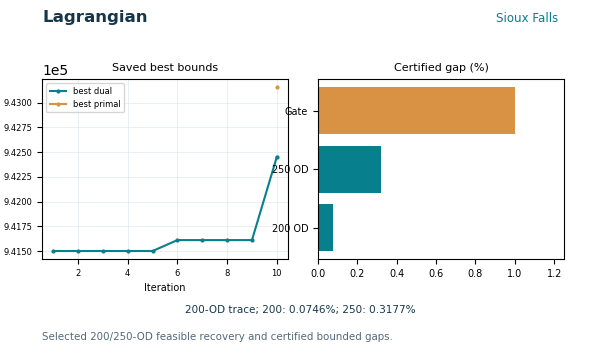
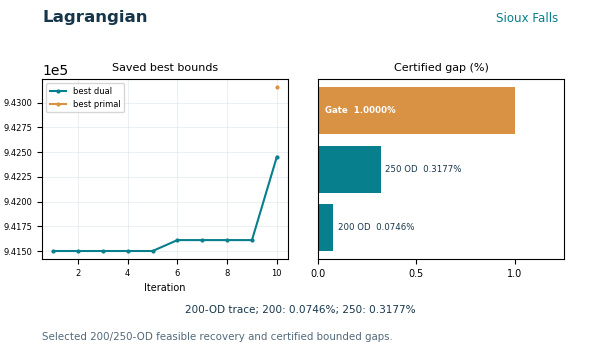
Show saved Lagrangian bounds in three-city homepage evidence

diff --git a/docs/index.html b/docs/index.html
@@ -230,11 +230,11 @@ The horizontal axis compares how the documented framework is instantiated in Bos
 <div class="table-scroll"><table class="home-coverage" data-component="17" width="100%"><colgroup><col width="33%"/><col width="33%"/><col width="33%"/></colgroup>
 <thead><tr><th colspan="3" scope="colgroup" width="800">Lagrangian</th></tr>
 <tr><th scope="col" width="266">Boston</th><th scope="col" width="266">Sioux Falls</th><th scope="col" width="266">Hong Kong</th></tr></thead><tbody>
-<tr class="coverage-scope"><td valign="top" width="266">Feasible primal, but frozen 1% gap gate missed (1.1002%).</td><td valign="top" width="266">Public 200-OD best-bound iteration trace; both 200/250-OD accepted certified gaps appear beside it.</td><td valign="top" width="266">Ten-OD feasible recovery with 0.7444% certified gap.</td></tr>
+<tr class="coverage-scope"><td valign="top" width="266">Saved Boston R2 10-OD best-bound iteration trace; feasible primal, 1.1002% gap misses the frozen 1% gate.</td><td valign="top" width="266">Public 200-OD best-bound iteration trace; both 200/250-OD accepted certified gaps appear beside it.</td><td valign="top" width="266">Ten-OD feasible recovery with 0.7444% certified gap.</td></tr>
 <tr class="coverage-preview"><td align="center" width="266"><a href="cases/boston.html#finite-time-expanded-algorithms"><img alt="Boston Lagrangian preview" src="assets/homepage_evidence_r2/row_17_boston.png" width="220"/></a></td><td align="center" width="266"><a href="methods/distributed-assignment.html"><img alt="Sioux Falls Lagrangian preview" src="assets/homepage_evidence_r2/row_17_sioux_falls.png" width="220"/></a></td><td align="center" width="266"><a href="cases/hong-kong-space-time.html"><img alt="Hong Kong Lagrangian preview" src="assets/homepage_evidence_r2/row_17_hong_kong.png" width="220"/></a></td></tr>
-<tr class="coverage-caption"><td align="center" width="266"><sub>Gated 1.1002% result; public aggregate only. Full holdout iteration history remains private.</sub></td><td align="center" width="266"><sub>Left: saved 200-OD best bounds by iteration; right: accepted 200-OD 0.0746% and 250-OD 0.3177% gaps.</sub></td><td align="center" width="266"><sub>Saved ten-OD best bounds by recorded iteration; missing primal points are not interpolated; accepted 0.7444% gap.</sub></td></tr>
+<tr class="coverage-caption"><td align="center" width="266"><sub>Saved Boston R2 10-OD best bounds by recorded iteration; missing primal points are not interpolated. Feasible primal, but 1.1002% misses the frozen 1% gate. The source history CSV remains private.</sub></td><td align="center" width="266"><sub>Left: saved 200-OD best bounds by iteration; right: accepted 200-OD 0.0746% and 250-OD 0.3177% gaps.</sub></td><td align="center" width="266"><sub>Saved ten-OD best bounds by recorded iteration; missing primal points are not interpolated; accepted 0.7444% gap.</sub></td></tr>
 <tr class="coverage-links">
-<td width="266"><sub><a href="cases/boston.html#finite-time-expanded-algorithms">Evidence</a> · <a href="assets/homepage_evidence_r2/row_17_boston.png">Full preview</a> · <a href="cases/boston.html">Source record</a></sub></td>
+<td width="266"><sub><a href="cases/boston.html#finite-time-expanded-algorithms">Evidence</a> · <a href="assets/homepage_evidence_r2/row_17_boston.png">Full preview</a> · <a href="assets/homepage_evidence_r2/BOSTON_ROW17_DERIVED_FIGURE_APPROVAL.json">Source record</a></sub></td>
 <td width="266"><sub><a href="methods/distributed-assignment.html">Evidence</a> · <a href="assets/homepage_evidence_r2/row_17_sioux_falls.png">Full preview</a> · <a href="https://github.com/scholarhaozheng/mobility-network-lab/blob/main/algorithms/distributed_assignment/lagrangian_r2/figure_data/Sioux_200OD_P07_history.csv">Source record</a></sub></td>
 <td width="266"><sub><a href="cases/hong-kong-space-time.html">Evidence</a> · <a href="assets/homepage_evidence_r2/row_17_hong_kong.png">Full preview</a> · <a href="assets/hong_kong/full_stack_r5/r2r4_baseline/phase_c/lagrangian_run/history.csv">Source record</a></sub></td>
 </tr></tbody></table></div>
@@ -440,13 +440,13 @@ The <a href="methods/space-time-cg.html#cg-experiments">cross-case CG evidence</
 <td class="atlas-card-cell" width="200"><a href="cases/boston-space-time.html#from-the-physical-network-to-the-finite-time-expanded-graph"><img alt="Boston Network construction and generated columns; 90-node/125-link/10-OD finite graph; saved time-indexed column." src="assets/homepage_evidence_r2/row_14_boston.png" width="165"/></a></td>
 <td class="atlas-card-cell" width="200"><a href="cases/boston-space-time.html#reference-objective-agreement"><img alt="Boston Arc-flow LP reference; Own-graph LP reference for the bounded ten-OD fixed-cost instance." src="assets/boston/space_time_cg_r4/boston_phase_ii_objective.png" width="165"/></a></td>
 <td class="atlas-card-cell" width="200"><a href="cases/boston-space-time.html#phase-i-restores-feasibility"><img alt="Boston Two-phase column generation; Phase I/II and independent 10/10 pricing closure." src="assets/homepage_evidence_r2/row_16_boston_r3.png" width="165"/></a></td>
-<td class="atlas-card-cell" width="200"><a href="cases/boston.html#finite-time-expanded-algorithms"><img alt="Boston Lagrangian; Feasible primal, but frozen 1% gap gate missed (1.1002%)." src="assets/homepage_evidence_r2/row_17_boston.png" width="165"/></a></td>
+<td class="atlas-card-cell" width="200"><a href="cases/boston.html#finite-time-expanded-algorithms"><img alt="Boston Lagrangian; Saved Boston R2 10-OD best-bound iteration trace; feasible primal, 1.1002% gap misses the frozen 1% gate." src="assets/homepage_evidence_r2/row_17_boston.png" width="165"/></a></td>
 </tr>
 <tr class="atlas-card-meta-row" data-stage="boston-finite">
 <td class="atlas-meta-cell" width="200"><small class="atlas-meta">90-node/125-link/10-OD finite graph; saved time-indexed column.</small></td>
 <td class="atlas-meta-cell" width="200"><small class="atlas-meta">Own-graph LP reference for the bounded ten-OD fixed-cost instance.</small></td>
 <td class="atlas-meta-cell" width="200"><small class="atlas-meta">Phase I/II and independent 10/10 pricing closure.</small></td>
-<td class="atlas-meta-cell" width="200"><small class="atlas-meta">Feasible primal, but frozen 1% gap gate missed (1.1002%).</small></td>
+<td class="atlas-meta-cell" width="200"><small class="atlas-meta">Saved Boston R2 10-OD best-bound iteration trace; feasible primal, 1.1002% gap misses the frozen 1% gate.</small></td>
 </tr>
 <tr class="atlas-card-links-row" data-stage="boston-finite">
 <td class="atlas-links-cell" width="200"><small class="atlas-links"><a href="cases/boston-space-time.html#from-the-physical-network-to-the-finite-time-expanded-graph">Evidence</a> · <a href="assets/homepage_evidence_r2/row_14_boston.png">Figure</a></small></td>

diff --git a/tools/visuals/render_homepage_evidence_r2.py b/tools/visuals/render_homepage_evidence_r2.py
@@ -8,10 +8,12 @@ from __future__ import annotations
 
 import csv
 import hashlib
+import html
 import io
 import json
 import math
 import re
+import shutil
 from collections import defaultdict
 from pathlib import Path
 
@@ -22,12 +24,13 @@ from matplotlib.collections import LineCollection
 from matplotlib.colors import Normalize
 from matplotlib.patches import Polygon as PatchPolygon
 import numpy as np
-from PIL import Image
+from PIL import Image, ImageDraw, ImageFont
 from shapely import wkt
 from shapely.geometry import shape
 
 ROOT = Path(__file__).resolve().parents[2]
 OUT = ROOT / "docs/assets/homepage_evidence_r2"
+APPROVED_BOSTON_LAGRANGIAN = OUT / "BOSTON_ROW17_DERIVED_FIGURE_APPROVAL.json"
 ROW15_MAPPING = OUT / "ROW15_REUSE_SOURCE_MAPPING.csv"
 R1_MAP = ROOT / "tools/visuals/homepage_evidence_r1_map.csv"
 CITIES = ("Boston", "Sioux Falls", "Hong Kong")
@@ -89,7 +92,7 @@ SOURCE_OVERRIDE = {
     "14": {"Boston": "docs/assets/three_city_r2/data/boston_construction_edges.csv", "Sioux Falls": "docs/assets/three_city_r2/data/sioux_construction_edges.csv", "Hong Kong": "docs/assets/three_city_r2/data/hong_kong_construction_edges.csv"},
     "15": {"Boston": B_CG+"validation_summary.json", "Sioux Falls": S_CG+"200_phase_ii_trace.csv", "Hong Kong": HK_CG+"full_cg_v1_phase_ii_objective_trace.csv"},
     "16": {"Boston": B_CG+"phase_i_total.csv", "Sioux Falls": S_CG+"200_phase_i_trace.csv", "Hong Kong": HK_CG+"full_cg_v1_phase_i_artificial_flow_trace.csv"},
-    "17": {"Boston": "docs/cases/boston.md", "Sioux Falls": "algorithms/distributed_assignment/lagrangian_r2/figure_data/Sioux_200OD_P07_history.csv", "Hong Kong": "docs/assets/hong_kong/full_stack_r5/r2r4_baseline/phase_c/lagrangian_run/history.csv"},
+    "17": {"Boston": "docs/assets/homepage_evidence_r2/BOSTON_ROW17_DERIVED_FIGURE_APPROVAL.json", "Sioux Falls": "algorithms/distributed_assignment/lagrangian_r2/figure_data/Sioux_200OD_P07_history.csv", "Hong Kong": "docs/assets/hong_kong/full_stack_r5/r2r4_baseline/phase_c/lagrangian_run/history.csv"},
     "18": {"Boston": "docs/assets/admm_r2/figures/admm_boston_10od_case_sequence.png", "Sioux Falls": "docs/assets/admm_r2/figures/admm_sioux_200_case_sequence.png", "Hong Kong": "docs/assets/hong_kong/full_stack_r5/r2r4_baseline/phase_c/admm_run/result.json"},
     "19": {"Boston": "examples/boston/SAVED_EXAMPLE.md", "Sioux Falls": "examples/sioux-falls/native_l3_r1/README.md", "Hong Kong": "docs/cases/hong-kong.md"},
 }
@@ -108,6 +111,17 @@ SIOUX_250_HISTORY = "algorithms/distributed_assignment/lagrangian_r2/figure_data
 
 def sha(path: Path) -> str:
     return hashlib.sha256(path.read_bytes()).hexdigest()
+
+def check_approved_boston_lagrangian(dest: Path) -> dict:
+    """Keep the approved derivative stable without shipping the private history."""
+    record=json.loads(APPROVED_BOSTON_LAGRANGIAN.read_text(encoding="utf-8"))
+    if record.get("scope")!="one Boston R2 10-OD row-17 derived PNG only":
+        raise AssertionError("Boston row-17 release scope changed")
+    if record.get("raw_history_csv_published") is not False:
+        raise AssertionError("Private Boston history must not be published")
+    if sha(dest)!=record["derived_png_sha256"]:
+        raise AssertionError("Approved Boston row-17 PNG hash changed")
+    return record
 
 def records(rel: str) -> list[dict]:
     with (ROOT/rel).open(newline="", encoding="utf-8-sig") as f:
@@ -407,7 +421,16 @@ def render_summary(fig,row_id,city,private_boston_history=None):
             axs[0].ticklabel_format(axis="y",style="sci",scilimits=(0,0))
         if city=="Sioux Falls":labels=["200 OD","250 OD","Gate"];values=[0.0746,0.3177,1.0]
         else:labels=["Saved gap","Gate"];values=[gap,1.0]
-        axs[1].barh(labels,values,color=[TEAL]*(len(values)-1)+[ORANGE]);axs[1].set_xlim(0,1.25);axs[1].tick_params(labelsize=7)
+        axs[1].barh(range(len(values)),values,color=[TEAL]*(len(values)-1)+[ORANGE])
+        axs[1].set_yticks([])
+        axs[1].set_xlim(0,1.25)
+        axs[1].set_xticks([0,.5,1.0]);axs[1].tick_params(axis="x",labelsize=7)
+        for i,(label,value) in enumerate(zip(labels,values)):
+            label_text=f"{label}  {value:.4f}%" if label!="Gate" else "Gate  1.0000%"
+            if value<.35:
+                axs[1].text(value+.025,i,label_text,va="center",fontsize=6.2,color=NAVY)
+            else:
+                axs[1].text(.035,i,label_text,va="center",fontsize=6.2,color="white",weight="bold")
         axs[0].set_title("Saved best bounds" if rs is not None else "Dual / primal evidence",fontsize=8);axs[1].set_title("Certified gap (%)",fontsize=8)
         fig.text(.5,.13,status,ha="center",fontsize=7.5,color=NAVY)
         return
@@ -462,14 +485,17 @@ def render(rows_to_update: set[str] | None = None):
             if source and not (ROOT/source).is_file():raise FileNotFoundError(source)
             display_scope=("200-OD example; 250-OD results in the case page; no full-DAG closure"
                            if row_id=="16" and city=="Sioux Falls" else old["result_summary"])
-            fig=fig_axes(title,city,display_scope)
-            if status in {"outside benchmark","not demonstrated"} or not source:
-                neutral(fig,"Not part of this case",old["result_summary"])
-            else:render_data_panel(fig,row_id,city)
             suffix="_r3" if row_id=="16" else ""
             rel=f"docs/assets/homepage_evidence_r2/row_{row_id}_{SLUG[city]}{suffix}.png";dest=ROOT/rel
-            fig.savefig(dest,dpi=100,facecolor="white",metadata={"Software":"MCL homepage evidence R2"})
-            plt.close(fig)
+            if row_id=="17" and city=="Boston":
+                check_approved_boston_lagrangian(dest)
+            else:
+                fig=fig_axes(title,city,display_scope)
+                if status in {"outside benchmark","not demonstrated"} or not source:
+                    neutral(fig,"Not part of this case",old["result_summary"])
+                else:render_data_panel(fig,row_id,city)
+                fig.savefig(dest,dpi=100,facecolor="white",metadata={"Software":"MCL homepage evidence R2"})
+                plt.close(fig)
             with Image.open(dest) as im:
                 if im.size!=CANVAS:raise AssertionError((rel,im.size))
             target=old["evidence_page"]
@@ -484,7 +510,7 @@ def render(rows_to_update: set[str] | None = None):
             if row_id=="17" and city=="Sioux Falls":
                 note="public 200-OD best-dual/best-primal iteration trace; 200/250-OD certified gaps remain separate"
             if row_id=="17" and city=="Boston":
-                note="public status-only preview; private Boston holdout history excluded from public assets pending specific release approval"
+                note="user-approved derived best-bound PNG only; raw Boston R2 history excluded; 1.1002% misses frozen 1% gate"
             if row_id=="17" and city=="Hong Kong":
                 note="saved iteration on x axis; missing best-primal values remain unplotted"
             original_figure=old["source_figure_or_data"]
@@ -508,6 +534,8 @@ def render(rows_to_update: set[str] | None = None):
                 row["result_scope"]="200-OD plotted example; 250-OD results remain on the case page; independent full-DAG closure not established."
             if row_id=="17" and city=="Sioux Falls":
                 row["result_scope"]="Public 200-OD best-bound iteration trace; both 200/250-OD accepted certified gaps appear beside it."
+            if row_id=="17" and city=="Boston":
+                row["result_scope"]="Saved Boston R2 10-OD best-bound iteration trace; feasible primal, 1.1002% gap misses the frozen 1% gate."
             matrix.append(row)
             side={"preview_path":rel,"preview_hash":row["preview_hash"],"template_id":template,"city":city,"stage":title,"method":title if row_id in {"10","11","12","13","15","16","17","18"} else "","instance":old["result_summary"],"source_asset_or_data":source,"source_hash":row["source_hash"],"transform":"deterministic, source-qualified row-specific plot or neutral status","crop":"none","scale_behavior":"contain/equal physical geometry; local numeric scales","units":"as labelled in preview and detailed source","legend":row["legend_contract"],"target_page":row["target_page"],"target_anchor":row["target_anchor"]}
             if row_id=="16":
@@ -519,7 +547,11 @@ def render(rows_to_update: set[str] | None = None):
                 side["source_assets_sha256"]={p:sha(ROOT/p) for p in (source,SIOUX_250_HISTORY)}
                 side["plotted_instance"]="200 OD only; 250 OD appears in gap bars and detailed saved figure"
             if row_id=="17" and city=="Boston":
-                side["public_disclosure"]="Status and certified aggregate only; private holdout history is not included."
+                approval=check_approved_boston_lagrangian(dest)
+                side["public_disclosure"]="Exact user-approved derived PNG only; private history CSV is not included."
+                side["approval_record"]=APPROVED_BOSTON_LAGRANGIAN.relative_to(ROOT).as_posix()
+                side["private_source_sha256"]=approval["private_history_sha256"]
+                side["plot_contract"]="Recorded iterations 1–300; empty best_primal values remain unplotted; frozen 1% gap gate missed."
             if row_id=="17" and city=="Hong Kong":
                 side["plot_contract"]="Recorded iteration values; empty best_primal values remain NaN."
             dest.with_suffix(".source.json").write_text(json.dumps(side,indent=2,ensure_ascii=False)+"\n",encoding="utf-8",newline="\n")
@@ -575,7 +607,83 @@ def render_private_boston_review(history_path: Path, output_path: Path) -> None:
         "public_release_approval":"not established",
         "result_status":"FEASIBLE_PRIMAL_GAP_GATE_NOT_MET",
         "missing_best_primal_interpolation":False,
+        "recorded_iterations":len(rows),
+        "first_iteration":rows[0]["iteration"],
+        "last_iteration":rows[-1]["iteration"],
+        "missing_best_primal_count":sum(not r.get("best_primal") for r in rows),
     },indent=2)+"\n",encoding="utf-8",newline="\n")
+    render_private_row17_review_bundle(output_path)
+
+
+def render_private_row17_review_bundle(boston_preview: Path) -> None:
+    """Make a three-city row-17 review page; keep every derivative outside Git."""
+    review_dir=boston_preview.parent.resolve()
+    if review_dir.is_relative_to(ROOT.resolve()):
+        raise ValueError("The private three-city review must stay outside the publishing checkout")
+    public_previews={
+        "Sioux Falls":OUT/"row_17_sioux_falls.png",
+        "Hong Kong":OUT/"row_17_hong_kong.png",
+    }
+    assets={"Boston":boston_preview}
+    for city,public_path in public_previews.items():
+        dest=review_dir/public_path.name
+        shutil.copy2(public_path,dest)
+        assets[city]=dest
+    canvas=Image.new("RGB",(1800,395),"white")
+    draw=ImageDraw.Draw(canvas)
+    font=ImageFont.truetype("arial.ttf",18)
+    for index,city in enumerate(CITIES):
+        with Image.open(assets[city]) as picture:
+            if picture.size!=CANVAS:raise AssertionError((city,picture.size))
+            canvas.paste(picture.convert("RGB"),(600*index,30))
+        draw.text((600*index+20,5),city,fill=NAVY,font=font)
+        if index:draw.line((600*index,0,600*index,390),fill="#dce6eb",width=2)
+    contact=review_dir/"LAGRANGIAN_ROW17_THREE_CITY_REVIEW.png"
+    canvas.save(contact)
+    scope={
+        "Boston":"Feasible primal; certified gap 1.1002%, above the frozen 1% gate. Local review only; saved history is not cleared for public release.",
+        "Sioux Falls":"Saved 200-OD bounds; accepted gaps: 200 OD 0.0746%, 250 OD 0.3177%. The 250-OD objective trace is not placed on the 200-OD axis.",
+        "Hong Kong":"Saved ten-OD bounds; accepted certified gap 0.7444%. Empty best-primal entries remain unplotted.",
+    }
+    columns="\n".join(
+        f'<td><h2>{html.escape(city)}</h2><img src="{html.escape(assets[city].name)}" '
+        f'width="600" height="360" alt="{html.escape(city)} saved Lagrangian row-17 evidence">'
+        f'<p>{html.escape(scope[city])}</p></td>' for city in CITIES
+    )
+    page=("<!doctype html><html lang=\"en\"><meta charset=\"utf-8\"><title>Local row-17 Lagrangian review</title>"
+          "<style>body{font:15px/1.5 Arial,sans-serif;color:#17364a;margin:24px}"
+          "table{border-collapse:collapse;max-width:100%;display:block;overflow-x:auto}td{vertical-align:top;border:1px solid #dce6eb;padding:10px;width:600px}"
+          "img{max-width:100%;height:auto}h2{font-size:17px;margin:0 0 6px}p{margin:8px 0}</style>"
+          "<h1>Section 03 / Lagrangian — local three-city review</h1>"
+          "<p>This page is a review-only representation of the homepage row. It is not a published README or GitHub Pages asset.</p>"
+          f"<table><tr>{columns}</tr></table>"
+          "<p>The public Boston tile remains status-only until this specific derived history plot is authorized for release. "
+          "The source CSV and complete iteration values are not bundled here.</p></html>\n")
+    (review_dir/"LAGRANGIAN_ROW17_LOCAL_REVIEW.html").write_text(page,encoding="utf-8",newline="\n")
+    # A complete local copy keeps Section 03 and the three case-atlas cards in
+    # their real homepage positions.  The base points only to the existing
+    # checked-out site; the Boston derivative itself stays in this review dir.
+    site=(ROOT/"docs/index.html").read_text(encoding="utf-8")
+    public_boston="assets/homepage_evidence_r2/row_17_boston.png"
+    if site.count(public_boston)!=4:
+        raise AssertionError("Unexpected Boston row-17 homepage references")
+    site=site.replace("<head>",f'<head><base href="{(ROOT/"docs").as_uri()}/">',1)
+    site=site.replace(public_boston,boston_preview.resolve().as_uri())
+    (review_dir/"HOMEPAGE_ROW17_LOCAL_REVIEW.html").write_text(site,encoding="utf-8",newline="\n")
+    with (OUT/"ROW_TEMPLATE_MATRIX.csv").open(newline="",encoding="utf-8") as f:
+        current=[r for r in csv.DictReader(f) if r["row_id"]=="17"]
+    if len(current)!=3:raise AssertionError("Missing row-17 matrix records")
+    for r in current:
+        city=r["city"]
+        r["preview_path"]=assets[city].name
+        r["preview_hash"]=sha(assets[city])
+        if city=="Boston":
+            r["data_or_figure_source"]="private Boston R2 receiver-review history (not copied)"
+            r["source_hash"]=json.loads(boston_preview.with_suffix(".source.json").read_text(encoding="utf-8"))["source_sha256"]
+            r["notes"]="PRIVATE_LOCAL_REVIEW_ONLY; 300 saved iterations; no interpolation; 1.1002% exceeds 1% gate"
+    with (review_dir/"ROW_TEMPLATE_MATRIX_ROW17_REVIEW.csv").open("w",newline="",encoding="utf-8") as f:
+        writer=csv.DictWriter(f,fieldnames=list(current[0]),lineterminator="\n")
+        writer.writeheader();writer.writerows(current)
 
 
 if __name__=="__main__":

diff --git a/tools/visuals/compose_homepage_r2.py b/tools/visuals/compose_homepage_r2.py
@@ -386,7 +386,7 @@ def component_table(matrix, rid):
         }
         out[7]='<tr class="coverage-caption">'+''.join('<td width="266" align="center"><sub>'+esc(captions[c])+'</sub></td>' for c in CITIES)+'</tr>'
     if rid=="17":
-        captions={"Boston":"Gated 1.1002% result; public aggregate only. Full holdout iteration history remains private.",
+        captions={"Boston":"Saved Boston R2 10-OD best bounds by recorded iteration; missing primal points are not interpolated. Feasible primal, but 1.1002% misses the frozen 1% gate. The source history CSV remains private.",
                   "Sioux Falls":"Left: saved 200-OD best bounds by iteration; right: accepted 200-OD 0.0746% and 250-OD 0.3177% gaps.",
                   "Hong Kong":"Saved ten-OD best bounds by recorded iteration; missing primal points are not interpolated; accepted 0.7444% gap."}
         out[5]='<tr class="coverage-caption">'+''.join('<td width="266" align="center"><sub>'+esc(captions[c])+'</sub></td>' for c in CITIES)+'</tr>'

diff --git a/README.md b/README.md
@@ -275,11 +275,11 @@ Most shared row previews use one evidence graphic type and one 600 × 360 source
 <table class="home-coverage" data-component="17" width="100%"><colgroup><col width="33%"><col width="33%"><col width="33%"></colgroup>
 <thead><tr><th colspan="3" scope="colgroup" width="800">Lagrangian</th></tr>
 <tr><th scope="col" width="266">Boston</th><th scope="col" width="266">Sioux Falls</th><th scope="col" width="266">Hong Kong</th></tr></thead><tbody>
-<tr class="coverage-scope"><td width="266" valign="top">Feasible primal, but frozen 1% gap gate missed (1.1002%).</td><td width="266" valign="top">Public 200-OD best-bound iteration trace; both 200/250-OD accepted certified gaps appear beside it.</td><td width="266" valign="top">Ten-OD feasible recovery with 0.7444% certified gap.</td></tr>
+<tr class="coverage-scope"><td width="266" valign="top">Saved Boston R2 10-OD best-bound iteration trace; feasible primal, 1.1002% gap misses the frozen 1% gate.</td><td width="266" valign="top">Public 200-OD best-bound iteration trace; both 200/250-OD accepted certified gaps appear beside it.</td><td width="266" valign="top">Ten-OD feasible recovery with 0.7444% certified gap.</td></tr>
 <tr class="coverage-preview"><td width="266" align="center"><a href="docs/cases/boston.md#finite-time-expanded-algorithms"><img src="docs/assets/homepage_evidence_r2/row_17_boston.png" width="220" alt="Boston Lagrangian preview"></a></td><td width="266" align="center"><a href="docs/methods/distributed-assignment.md"><img src="docs/assets/homepage_evidence_r2/row_17_sioux_falls.png" width="220" alt="Sioux Falls Lagrangian preview"></a></td><td width="266" align="center"><a href="docs/cases/hong-kong-space-time.md"><img src="docs/assets/homepage_evidence_r2/row_17_hong_kong.png" width="220" alt="Hong Kong Lagrangian preview"></a></td></tr>
-<tr class="coverage-caption"><td width="266" align="center"><sub>Gated 1.1002% result; public aggregate only. Full holdout iteration history remains private.</sub></td><td width="266" align="center"><sub>Left: saved 200-OD best bounds by iteration; right: accepted 200-OD 0.0746% and 250-OD 0.3177% gaps.</sub></td><td width="266" align="center"><sub>Saved ten-OD best bounds by recorded iteration; missing primal points are not interpolated; accepted 0.7444% gap.</sub></td></tr>
+<tr class="coverage-caption"><td width="266" align="center"><sub>Saved Boston R2 10-OD best bounds by recorded iteration; missing primal points are not interpolated. Feasible primal, but 1.1002% misses the frozen 1% gate. The source history CSV remains private.</sub></td><td width="266" align="center"><sub>Left: saved 200-OD best bounds by iteration; right: accepted 200-OD 0.0746% and 250-OD 0.3177% gaps.</sub></td><td width="266" align="center"><sub>Saved ten-OD best bounds by recorded iteration; missing primal points are not interpolated; accepted 0.7444% gap.</sub></td></tr>
 <tr class="coverage-links">
-<td width="266"><sub><a href="docs/cases/boston.md#finite-time-expanded-algorithms">Evidence</a> · <a href="docs/assets/homepage_evidence_r2/row_17_boston.png">Full preview</a> · <a href="docs/cases/boston.md">Source record</a></sub></td>
+<td width="266"><sub><a href="docs/cases/boston.md#finite-time-expanded-algorithms">Evidence</a> · <a href="docs/assets/homepage_evidence_r2/row_17_boston.png">Full preview</a> · <a href="docs/assets/homepage_evidence_r2/BOSTON_ROW17_DERIVED_FIGURE_APPROVAL.json">Source record</a></sub></td>
 <td width="266"><sub><a href="docs/methods/distributed-assignment.md">Evidence</a> · <a href="docs/assets/homepage_evidence_r2/row_17_sioux_falls.png">Full preview</a> · <a href="algorithms/distributed_assignment/lagrangian_r2/figure_data/Sioux_200OD_P07_history.csv">Source record</a></sub></td>
 <td width="266"><sub><a href="docs/cases/hong-kong-space-time.md">Evidence</a> · <a href="docs/assets/homepage_evidence_r2/row_17_hong_kong.png">Full preview</a> · <a href="docs/assets/hong_kong/full_stack_r5/r2r4_baseline/phase_c/lagrangian_run/history.csv">Source record</a></sub></td>
 </tr></tbody></table>
@@ -494,13 +494,13 @@ A–D are reading labels for computational depth. City-data and four-stage-deman
 <td width="200" class="atlas-card-cell"><a href="docs/cases/boston-space-time.md#from-the-physical-network-to-the-finite-time-expanded-graph"><img src="docs/assets/homepage_evidence_r2/row_14_boston.png" width="165" alt="Boston Network construction and generated columns; 90-node/125-link/10-OD finite graph; saved time-indexed column."></a></td>
 <td width="200" class="atlas-card-cell"><a href="docs/cases/boston-space-time.md#reference-objective-agreement"><img src="docs/assets/boston/space_time_cg_r4/boston_phase_ii_objective.png" width="165" alt="Boston Arc-flow LP reference; Own-graph LP reference for the bounded ten-OD fixed-cost instance."></a></td>
 <td width="200" class="atlas-card-cell"><a href="docs/cases/boston-space-time.md#phase-i-restores-feasibility"><img src="docs/assets/homepage_evidence_r2/row_16_boston_r3.png" width="165" alt="Boston Two-phase column generation; Phase I/II and independent 10/10 pricing closure."></a></td>
-<td width="200" class="atlas-card-cell"><a href="docs/cases/boston.md#finite-time-expanded-algorithms"><img src="docs/assets/homepage_evidence_r2/row_17_boston.png" width="165" alt="Boston Lagrangian; Feasible primal, but frozen 1% gap gate missed (1.1002%)."></a></td>
+<td width="200" class="atlas-card-cell"><a href="docs/cases/boston.md#finite-time-expanded-algorithms"><img src="docs/assets/homepage_evidence_r2/row_17_boston.png" width="165" alt="Boston Lagrangian; Saved Boston R2 10-OD best-bound iteration trace; feasible primal, 1.1002% gap misses the frozen 1% gate."></a></td>
 </tr>
 <tr class="atlas-card-meta-row" data-stage="boston-finite">
 <td width="200" class="atlas-meta-cell"><small class="atlas-meta">90-node/125-link/10-OD finite graph; saved time-indexed column.</small></td>
 <td width="200" class="atlas-meta-cell"><small class="atlas-meta">Own-graph LP reference for the bounded ten-OD fixed-cost instance.</small></td>
 <td width="200" class="atlas-meta-cell"><small class="atlas-meta">Phase I/II and independent 10/10 pricing closure.</small></td>
-<td width="200" class="atlas-meta-cell"><small class="atlas-meta">Feasible primal, but frozen 1% gap gate missed (1.1002%).</small></td>
+<td width="200" class="atlas-meta-cell"><small class="atlas-meta">Saved Boston R2 10-OD best-bound iteration trace; feasible primal, 1.1002% gap misses the frozen 1% gate.</small></td>
 </tr>
 <tr class="atlas-card-links-row" data-stage="boston-finite">
 <td width="200" class="atlas-links-cell"><small class="atlas-links"><a href="docs/cases/boston-space-time.md#from-the-physical-network-to-the-finite-time-expanded-graph">Evidence</a> · <a href="docs/assets/homepage_evidence_r2/row_14_boston.png">Figure</a></small></td>

diff --git a/docs/index.md b/docs/index.md
@@ -231,11 +231,11 @@ The horizontal axis compares how the documented framework is instantiated in Bos
 <div class="table-scroll"><table class="home-coverage" data-component="17" width="100%"><colgroup><col width="33%"/><col width="33%"/><col width="33%"/></colgroup>
 <thead><tr><th colspan="3" scope="colgroup" width="800">Lagrangian</th></tr>
 <tr><th scope="col" width="266">Boston</th><th scope="col" width="266">Sioux Falls</th><th scope="col" width="266">Hong Kong</th></tr></thead><tbody>
-<tr class="coverage-scope"><td valign="top" width="266">Feasible primal, but frozen 1% gap gate missed (1.1002%).</td><td valign="top" width="266">Public 200-OD best-bound iteration trace; both 200/250-OD accepted certified gaps appear beside it.</td><td valign="top" width="266">Ten-OD feasible recovery with 0.7444% certified gap.</td></tr>
+<tr class="coverage-scope"><td valign="top" width="266">Saved Boston R2 10-OD best-bound iteration trace; feasible primal, 1.1002% gap misses the frozen 1% gate.</td><td valign="top" width="266">Public 200-OD best-bound iteration trace; both 200/250-OD accepted certified gaps appear beside it.</td><td valign="top" width="266">Ten-OD feasible recovery with 0.7444% certified gap.</td></tr>
 <tr class="coverage-preview"><td align="center" width="266"><a href="cases/boston.html#finite-time-expanded-algorithms"><img alt="Boston Lagrangian preview" src="assets/homepage_evidence_r2/row_17_boston.png" width="220"/></a></td><td align="center" width="266"><a href="methods/distributed-assignment.html"><img alt="Sioux Falls Lagrangian preview" src="assets/homepage_evidence_r2/row_17_sioux_falls.png" width="220"/></a></td><td align="center" width="266"><a href="cases/hong-kong-space-time.html"><img alt="Hong Kong Lagrangian preview" src="assets/homepage_evidence_r2/row_17_hong_kong.png" width="220"/></a></td></tr>
-<tr class="coverage-caption"><td align="center" width="266"><sub>Gated 1.1002% result; public aggregate only. Full holdout iteration history remains private.</sub></td><td align="center" width="266"><sub>Left: saved 200-OD best bounds by iteration; right: accepted 200-OD 0.0746% and 250-OD 0.3177% gaps.</sub></td><td align="center" width="266"><sub>Saved ten-OD best bounds by recorded iteration; missing primal points are not interpolated; accepted 0.7444% gap.</sub></td></tr>
+<tr class="coverage-caption"><td align="center" width="266"><sub>Saved Boston R2 10-OD best bounds by recorded iteration; missing primal points are not interpolated. Feasible primal, but 1.1002% misses the frozen 1% gate. The source history CSV remains private.</sub></td><td align="center" width="266"><sub>Left: saved 200-OD best bounds by iteration; right: accepted 200-OD 0.0746% and 250-OD 0.3177% gaps.</sub></td><td align="center" width="266"><sub>Saved ten-OD best bounds by recorded iteration; missing primal points are not interpolated; accepted 0.7444% gap.</sub></td></tr>
 <tr class="coverage-links">
-<td width="266"><sub><a href="cases/boston.html#finite-time-expanded-algorithms">Evidence</a> · <a href="assets/homepage_evidence_r2/row_17_boston.png">Full preview</a> · <a href="cases/boston.html">Source record</a></sub></td>
+<td width="266"><sub><a href="cases/boston.html#finite-time-expanded-algorithms">Evidence</a> · <a href="assets/homepage_evidence_r2/row_17_boston.png">Full preview</a> · <a href="assets/homepage_evidence_r2/BOSTON_ROW17_DERIVED_FIGURE_APPROVAL.json">Source record</a></sub></td>
 <td width="266"><sub><a href="methods/distributed-assignment.html">Evidence</a> · <a href="assets/homepage_evidence_r2/row_17_sioux_falls.png">Full preview</a> · <a href="https://github.com/scholarhaozheng/mobility-network-lab/blob/main/algorithms/distributed_assignment/lagrangian_r2/figure_data/Sioux_200OD_P07_history.csv">Source record</a></sub></td>
 <td width="266"><sub><a href="cases/hong-kong-space-time.html">Evidence</a> · <a href="assets/homepage_evidence_r2/row_17_hong_kong.png">Full preview</a> · <a href="assets/hong_kong/full_stack_r5/r2r4_baseline/phase_c/lagrangian_run/history.csv">Source record</a></sub></td>
 </tr></tbody></table></div>
@@ -441,13 +441,13 @@ The <a href="methods/space-time-cg.html#cg-experiments">cross-case CG evidence</
 <td class="atlas-card-cell" width="200"><a href="cases/boston-space-time.html#from-the-physical-network-to-the-finite-time-expanded-graph"><img alt="Boston Network construction and generated columns; 90-node/125-link/10-OD finite graph; saved time-indexed column." src="assets/homepage_evidence_r2/row_14_boston.png" width="165"/></a></td>
 <td class="atlas-card-cell" width="200"><a href="cases/boston-space-time.html#reference-objective-agreement"><img alt="Boston Arc-flow LP reference; Own-graph LP reference for the bounded ten-OD fixed-cost instance." src="assets/boston/space_time_cg_r4/boston_phase_ii_objective.png" width="165"/></a></td>
 <td class="atlas-card-cell" width="200"><a href="cases/boston-space-time.html#phase-i-restores-feasibility"><img alt="Boston Two-phase column generation; Phase I/II and independent 10/10 pricing closure." src="assets/homepage_evidence_r2/row_16_boston_r3.png" width="165"/></a></td>
-<td class="atlas-card-cell" width="200"><a href="cases/boston.html#finite-time-expanded-algorithms"><img alt="Boston Lagrangian; Feasible primal, but frozen 1% gap gate missed (1.1002%)." src="assets/homepage_evidence_r2/row_17_boston.png" width="165"/></a></td>
+<td class="atlas-card-cell" width="200"><a href="cases/boston.html#finite-time-expanded-algorithms"><img alt="Boston Lagrangian; Saved Boston R2 10-OD best-bound iteration trace; feasible primal, 1.1002% gap misses the frozen 1% gate." src="assets/homepage_evidence_r2/row_17_boston.png" width="165"/></a></td>
 </tr>
 <tr class="atlas-card-meta-row" data-stage="boston-finite">
 <td class="atlas-meta-cell" width="200"><small class="atlas-meta">90-node/125-link/10-OD finite graph; saved time-indexed column.</small></td>
 <td class="atlas-meta-cell" width="200"><small class="atlas-meta">Own-graph LP reference for the bounded ten-OD fixed-cost instance.</small></td>
 <td class="atlas-meta-cell" width="200"><small class="atlas-meta">Phase I/II and independent 10/10 pricing closure.</small></td>
-<td class="atlas-meta-cell" width="200"><small class="atlas-meta">Feasible primal, but frozen 1% gap gate missed (1.1002%).</small></td>
+<td class="atlas-meta-cell" width="200"><small class="atlas-meta">Saved Boston R2 10-OD best-bound iteration trace; feasible primal, 1.1002% gap misses the frozen 1% gate.</small></td>
 </tr>
 <tr class="atlas-card-links-row" data-stage="boston-finite">
 <td class="atlas-links-cell" width="200"><small class="atlas-links"><a href="cases/boston-space-time.html#from-the-physical-network-to-the-finite-time-expanded-graph">Evidence</a> · <a href="assets/homepage_evidence_r2/row_14_boston.png">Figure</a></small></td>
